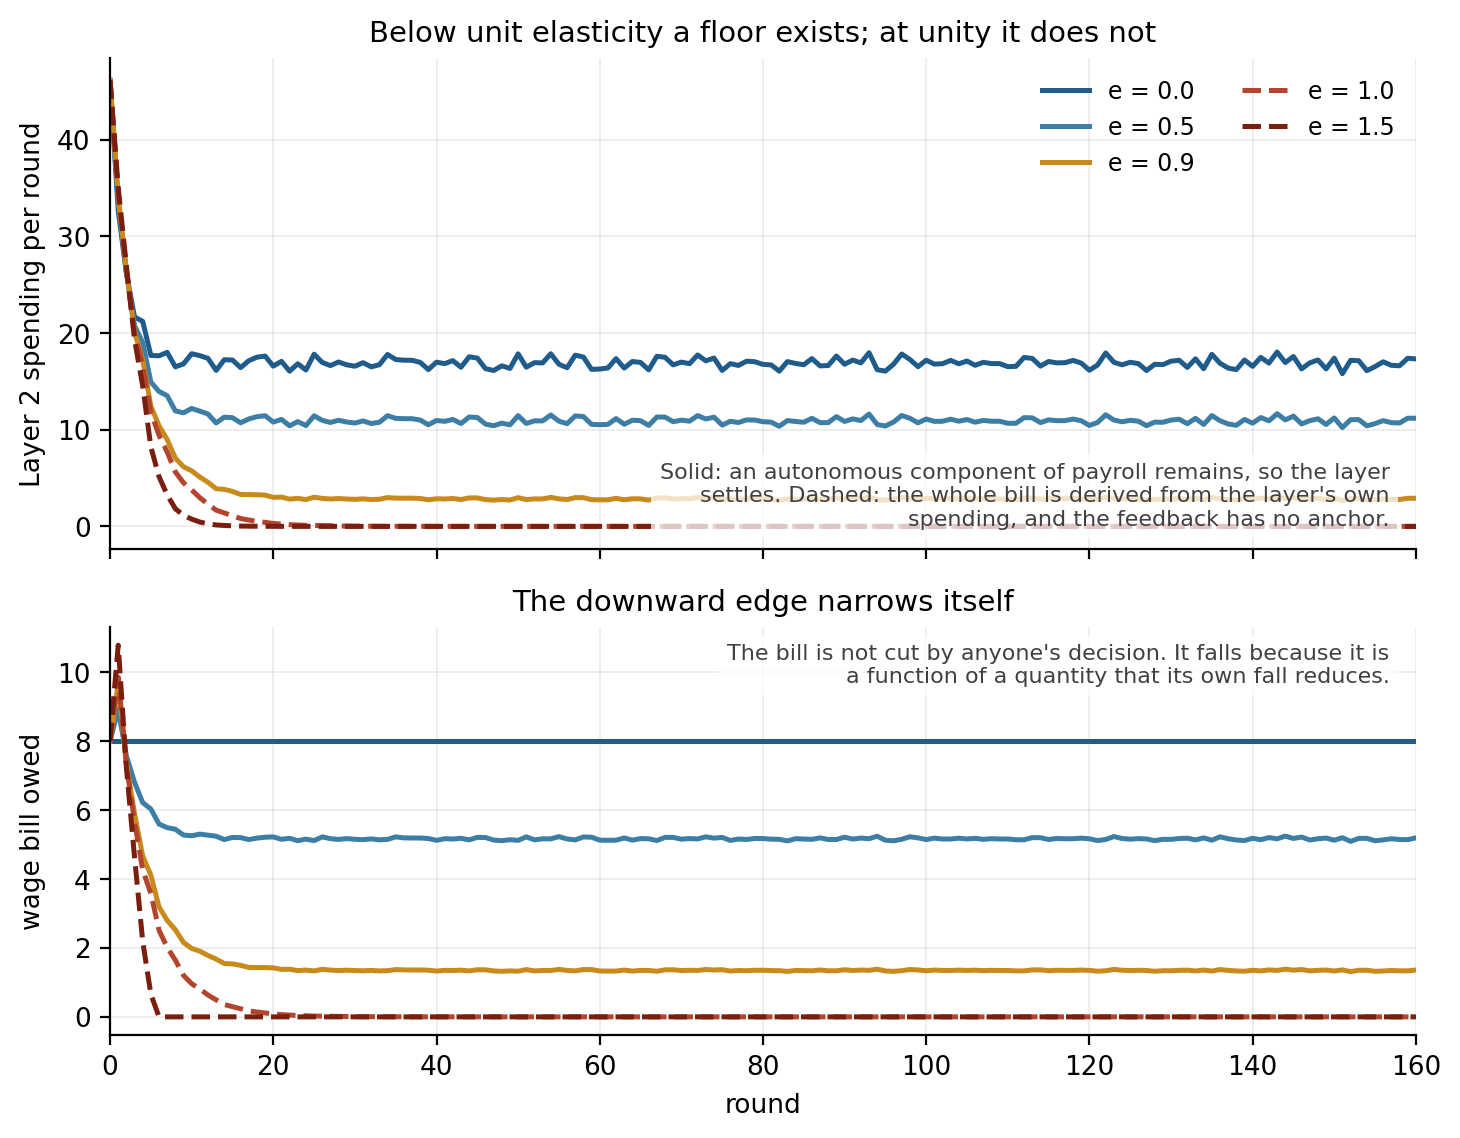
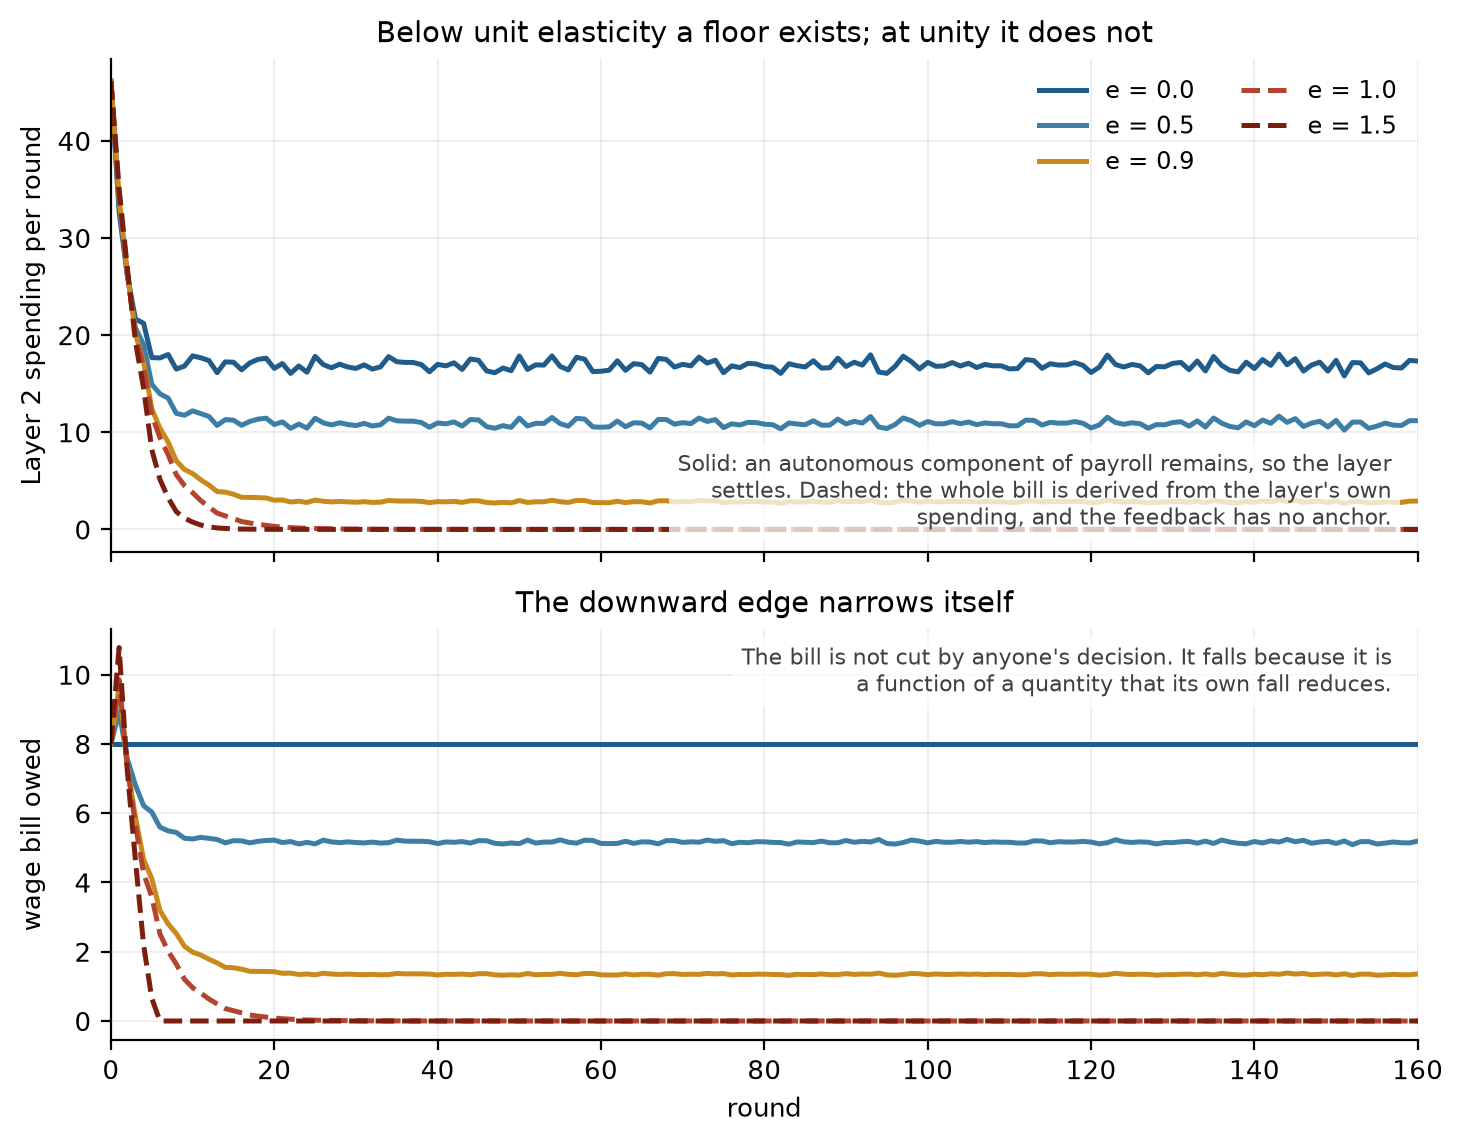
infra: pin the two dependencies that reach committed artefacts, and stop writing a library version into every figure
Found while running A7, and unrelated to it. Three of the things this repository
commits as artefacts were not reproducible, in three different ways, and one of
them hid a real defect for days.

THE VERSION STRING IN EVERY FIGURE

`plotting.py`'s `save` wrote matplotlib's default PNG metadata, so every figure
carried `Software\0Matplotlib version3.10.9, https://matplotlib.org/` in a
`tEXt` chunk. `CLAUDE.md`'s generated-files rule 2 forbids library version
strings in committed files, and `.gitignore` says in as many words that figures
are committed because they are the artefact. `metadata={"Software": None}`
suppresses it. Every figure is regenerated in this commit for that reason.

THE PIN, WHICH IS THE LOAD-BEARING HALF

Suppressing the metadata does not make a figure reproducible. `savefig.bbox` is
`"tight"`, so the canvas is sized from rendered text extents and a matplotlib
change moves the pixel dimensions of every plot. An upgrade from 3.10.9 to
3.11.1 changed all eleven figures: the `IHDR` chunk differs, not only the
metadata, and one file went from 161300 to 135395 bytes.

Eleven spurious modifications then sat in `git status` for days, and that is not
a cosmetic cost. The record drift in `a3_asset_channel.json`,
`a3c_load_bearing.json` and `a6_siphon_cost.json` was sitting in the same list
and was noticed only because A7 had reason to read every line of it.

`numpy` matters more than the figures and was equally unpinned. Figures are not
[…]

diff --git a/src/monetary_topology/plotting.py b/src/monetary_topology/plotting.py
@@ -43,9 +43,25 @@ def apply_style() -> None:
 
 
 def save(fig: plt.Figure, path: Path) -> Path:
-    """Write ``fig`` to ``path``, creating parent directories."""
+    """Write ``fig`` to ``path``, creating parent directories.
+
+    ``metadata={"Software": None}`` suppresses the PNG ``tEXt`` chunk
+    matplotlib writes by default, which reads
+    ``Software\0Matplotlib version3.11.1, https://matplotlib.org/``.
+    `CLAUDE.md`'s generated-files rule 2 forbids library version strings in
+    files that are committed, and figures are committed: `.gitignore` says so in
+    as many words. Without this, every figure in the repository changes on any
+    environment refresh and twelve spurious modifications sit in `git status`
+    hiding the real ones, which is how the record drift in `a3_asset_channel`
+    and `a6_siphon_cost` stayed unnoticed.
+
+    **The metadata is the cheap half.** Pixel content still depends on the
+    matplotlib and freetype versions, because ``savefig.bbox = "tight"`` sizes
+    the canvas from rendered text extents, so the load-bearing fix is the pin in
+    `requirements.txt` and `pyproject.toml`.
+    """
     path.parent.mkdir(parents=True, exist_ok=True)
-    fig.savefig(path)
+    fig.savefig(path, metadata={"Software": None})
     plt.close(fig)
     return path
 
